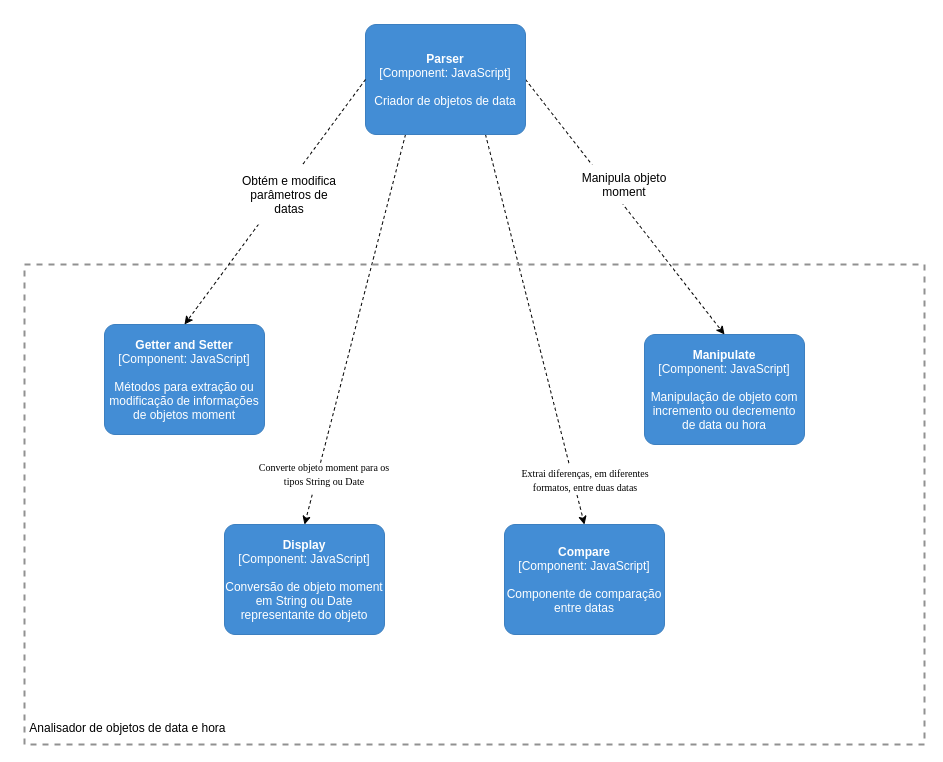
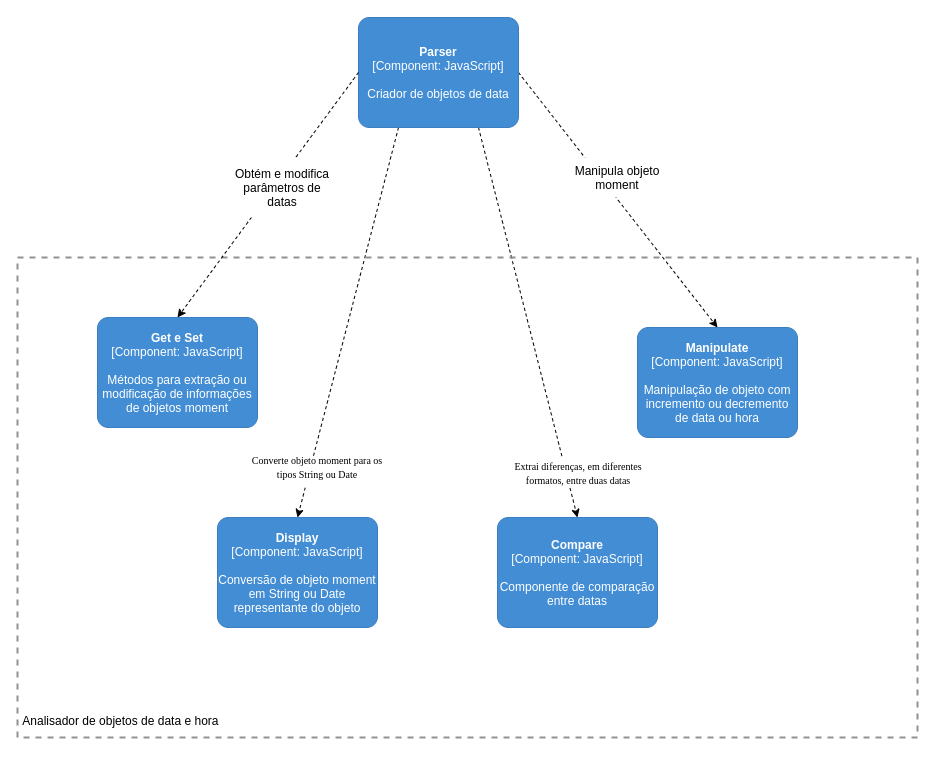
Update diagrams

diff --git a/content/posts/momenjs.md b/content/posts/momenjs.md
@@ -51,13 +51,19 @@ Na criação de um objeto moment, o construtor extrai a data do sistema operacio
 
 A principal funcionalidade do Moment Js é a criação e manipulação de datas, mas, além disso, ele também apresenta um módulo para internacionalização e um módulo que é responsável pela criação de objetos de duração, que são representantes de períodos de tempo. Tais containers são mostrados no diagrama de container abaixo.
 
+![container](momentjs/momentjs-container-diagram.png)
+
+#### Analisador de objetos de data e hora
+
 O container analisador de objetos de data e hora é responsável por criar um objeto que empacota uma data. Além disso, ele possui diversas ferramentas para incrementar, decrementar ou converter este objeto, tendo em vista que estes objetos do moment são mutáveis.
+
+#### i18n
 
 O container de internacionalização é responsável por configurar o ambiente para a qual o moment será utilizado. Com ele é possível estabelecer qual a localização geográfica do sistema e o idioma default utilizado, além de permitir a visualização de meses de dias de semana no idioma estabelecido.
 
-Já o container representante da análise de objetos do tipo duração possui a função de criar objetos que representam períodos de tempo. Com eles é possível realizar conversão entre diferentes unidades de tempo (exemplo: minutos, segundos, horas) e manipular estes objetos.
+#### Analisador de objetos de duração
 
-![container](momentjs/momentjs-container-diagram.png)
+Já o container representante da análise de objetos do tipo duração possui a função de criar objetos que representam períodos de tempo. Com eles é possível realizar conversão entre diferentes unidades de tempo (exemplo: minutos, segundos, horas) e manipular estes objetos.
 
 ### Componentes
 
@@ -65,13 +71,23 @@ O principal container do moment é o de análise de objetos de data e hora, por 
 
 ![componente](momentjs/momentjs-component-diagram.png)
 
+#### Parser
+
 O componente de Parser é responsável por criar os objetos que representam data e hora. A partir dele que os métodos de manipulação e conversão são disponibilizados.
 
-O componente Getter and Setter é composto por um conjunto de métodos que possibilita a modificação e obtenção de parâmetros pontuais de um objeto. Por exemplo, é através deste componente que pode-se modificar data ou hora de um objeto moment, assim como obter essas informações do mesmo objeto.
+#### Get and Set
+
+O componente Get and Set é composto por um conjunto de métodos que possibilita a modificação e obtenção de parâmetros pontuais de um objeto. Por exemplo, é através deste componente que pode-se modificar data ou hora de um objeto moment, assim como obter essas informações do mesmo objeto.
+
+#### Manipulate
 
 Semelhante ao componente de Getter and Setter, o componente Manipulate também é responsável por realizar modificações em objetos criados pelo Parser. A diferença é que os métodos disponibilizados pelo Manipulate não realizam modificações nos objetos de forma direta. O Manipulate pode adicionar ou remover horas, minutos, dias, meses, de forma muito mais prática. O desenvolvedor pode deixar a cargo do componente o cálculo de conversão de data ao ser retirado 1 mês, por exemplo, do dia informado.
 
+#### Display
+
 O componente Display é responsável pelas conversões dos objetos moment para diferentes formatos, como por exemplo: String, JSON, Date, dentre outros. Com ele o moment pode converter seus objetos para o formato Date, para assim serem salvos em um banco de dados. Além disso, pode converter datas para o formato String, para ser apresentado ao usuário.
+
+#### Compare
 
 Por fim, o componente Compare é responsável por fazer comparações entre diferentes datas. Assim, ele disponibiliza mecanismos para informar se um data está a frente de outra e se duas datas, construídas a partir de diferentes formatos, são iguais. Além disso, é com esse componente que é possível verificar se uma String pode ser utilizada para construir um objeto moment.
 
